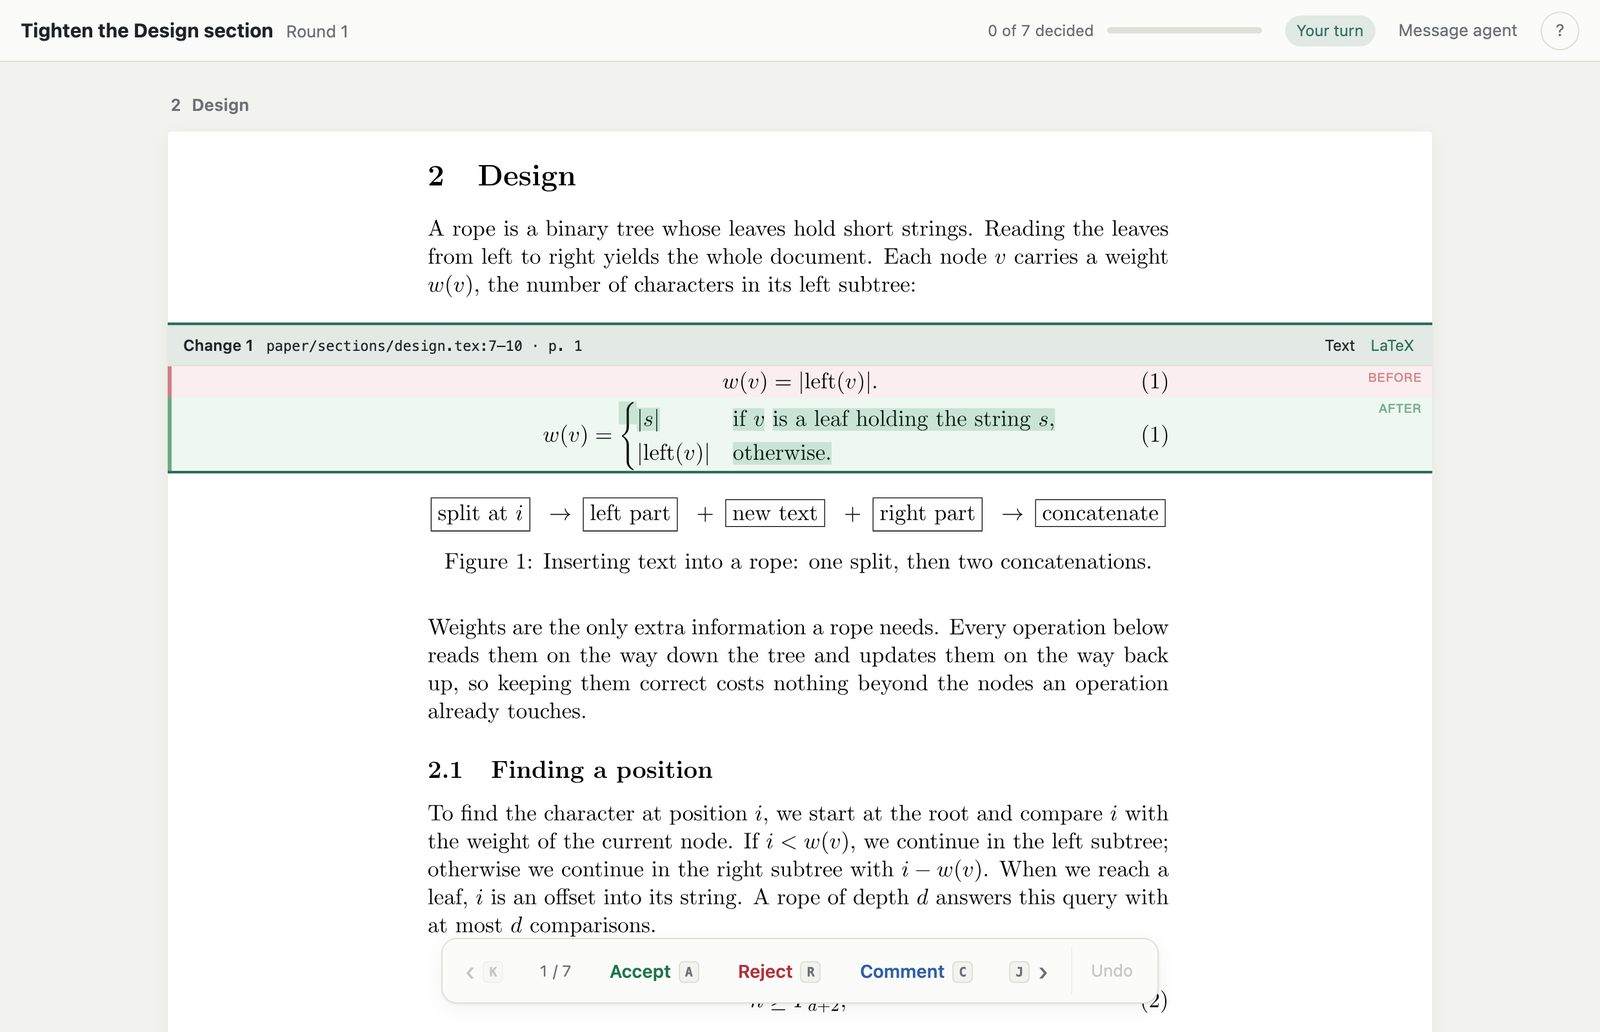
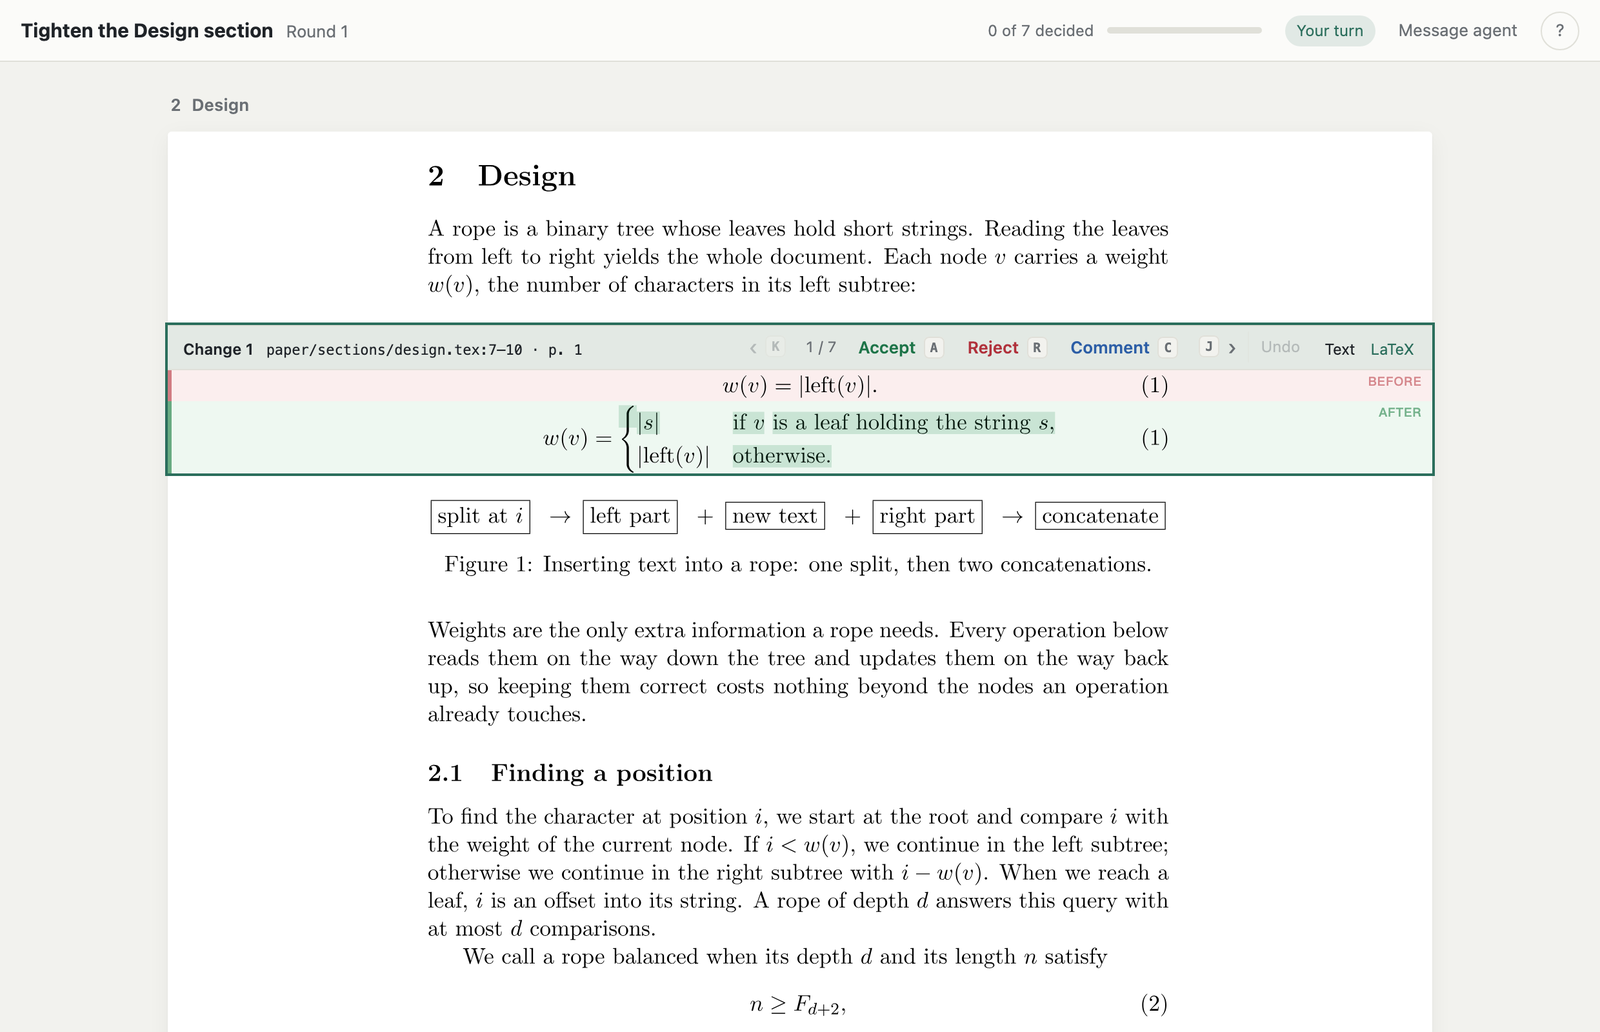
Put the review actions in the current change's header

diff --git a/web/style.css b/web/style.css
@@ -72,13 +72,13 @@ kbd {
 .ghost.round { width: 30px; height: 30px; padding: 0; border-radius: 50%; border-color: var(--line); }
 
 /* Document */
-#paper { overflow: auto; padding: 18px 16px 150px; scroll-padding: 70px 0 130px; overflow-anchor: none; outline: none; }
+#paper { overflow: auto; padding: 18px 16px 90px; scroll-padding: 70px 0 90px; overflow-anchor: none; outline: none; }
 .document { max-width: 980px; margin: 0 auto; }
 .empty { text-align: center; color: var(--muted); padding: 60px 16px; }
 .part + .part { margin-top: 30px; }
 .part-title { font-size: 13px; font-weight: 600; color: var(--muted); margin: 6px 2px 10px; letter-spacing: .01em; }
 .part-title .number { margin-right: 8px; font-variant-numeric: tabular-nums; }
-.sheet { background: var(--paper); box-shadow: var(--shadow); border-radius: 3px; padding: 10px 0; overflow: hidden; }
+.sheet { background: var(--paper); box-shadow: var(--shadow); border-radius: 3px; padding: 10px 0; }
 .context, .side { line-height: 0; }
 .document img { display: block; width: 100%; height: auto; }
 .fold {
@@ -88,7 +88,8 @@ kbd {
 }
 
 .change { position: relative; scroll-margin: 70px; outline: none; color: #1f2328; }
-.change.standalone { background: var(--paper); box-shadow: var(--shadow); border-radius: 3px; overflow: hidden; margin-bottom: 18px; }
+.change.standalone { background: var(--paper); box-shadow: var(--shadow); border-radius: 3px; margin-bottom: 26px; }
+.change.standalone .change-head { border-radius: 3px 3px 0 0; }
 .change.inline { margin: 6px 0; }
 .change-head {
   display: flex; align-items: baseline; gap: 10px; padding: 5px 12px; font-size: 12px; line-height: 1.6;
@@ -176,6 +177,20 @@ kbd {
 .position { min-width: 52px; text-align: center; font-size: 12px; color: var(--muted); font-variant-numeric: tabular-nums; }
 .complete { padding: 0 14px; font-size: 13px; color: var(--muted); white-space: nowrap; }
 
+/* In the current change's header, which stays in view while the change is taller than the window. */
+.change.current > .change-head { position: sticky; top: 0; z-index: 4; padding-top: 3px; padding-bottom: 3px; }
+.change-head .dock { display: flex; align-items: center; flex: none; }
+.change-head .actions {
+  position: static; transform: none; max-width: none; padding: 0; gap: 0;
+  background: none; border: 0; box-shadow: none; border-radius: 0;
+}
+.change-head .actions button { padding: 3px 9px; font-size: 13px; line-height: 1.5; }
+.change-head .actions .nav { font-size: 17px; padding: 1px 7px; }
+.change-head .actions .undo { font-size: 12px; margin-left: 2px; padding: 3px 9px; }
+.change-head .position { min-width: 40px; font-size: 11.5px; }
+.change-head .complete { padding: 0 8px; font-size: 12px; }
+.change-head .composer { position: absolute; top: calc(100% + 6px); right: 8px; left: auto; bottom: auto; transform: none; width: min(380px, calc(100vw - 24px)); }
+
 .composer {
   position: fixed; left: 50%; bottom: 84px; transform: translateX(-50%); z-index: 5;
   width: min(540px, calc(100vw - 24px)); padding: 12px; border-radius: 12px;
@@ -210,7 +225,10 @@ dialog form button { border: 1px solid var(--line); background: var(--frame); bo
   .track { width: 70px; }
   .actions button { padding: 9px 9px; }
   .actions kbd, #note-button { display: none; }
-  #paper { padding: 10px 6px 150px; }
+  .change-head { flex-wrap: wrap; }
+  .change-head .dock { order: 9; flex-basis: 100%; justify-content: center; }
+  .change-head .composer { right: 0; width: calc(100vw - 24px); }
+  #paper { padding: 10px 6px 90px; }
 }
 @media (prefers-reduced-motion: reduce) {
   * { scroll-behavior: auto !important; animation: none !important; transition: none !important; }

diff --git a/web/index.html b/web/index.html
@@ -30,25 +30,27 @@
     <div id="document" class="document"><p class="empty">Loading…</p></div>
   </main>
 
-  <nav id="actions" class="actions" aria-label="Review the current change" hidden>
-    <button type="button" data-command="previous" class="nav" aria-label="Previous change" aria-keyshortcuts="K ArrowLeft" title="Previous change (K or ←)">‹<kbd>K</kbd></button>
-    <span id="position" class="position" aria-live="polite"></span>
-    <button type="button" data-command="accept" class="accept" aria-keyshortcuts="A" title="Accept: apply to your manuscript (A)">Accept<kbd>A</kbd></button>
-    <button type="button" data-command="reject" class="reject" aria-keyshortcuts="R" title="Reject: discard the change (R)">Reject<kbd>R</kbd></button>
-    <button type="button" data-command="comment" class="comment" aria-keyshortcuts="C" title="Comment: ask the agent to revise (C)">Comment<kbd>C</kbd></button>
-    <span id="complete" class="complete" hidden></span>
-    <button type="button" data-command="next" class="nav" aria-label="Next change" aria-keyshortcuts="J ArrowRight" title="Next change (J or →)"><kbd class="lead">J</kbd>›</button>
-    <button type="button" data-command="undo" class="undo" title="Undo the last decision (⌘Z)" disabled>Undo</button>
-  </nav>
+  <div id="dock" class="dock" hidden>
+    <nav id="actions" class="actions" aria-label="Review the current change" hidden>
+      <button type="button" data-command="previous" class="nav" aria-label="Previous change" aria-keyshortcuts="K ArrowLeft" title="Previous change (K or ←)">‹<kbd>K</kbd></button>
+      <span id="position" class="position" aria-live="polite"></span>
+      <button type="button" data-command="accept" class="accept" aria-keyshortcuts="A" title="Accept: apply to your manuscript (A)">Accept<kbd>A</kbd></button>
+      <button type="button" data-command="reject" class="reject" aria-keyshortcuts="R" title="Reject: discard the change (R)">Reject<kbd>R</kbd></button>
+      <button type="button" data-command="comment" class="comment" aria-keyshortcuts="C" title="Comment: ask the agent to revise (C)">Comment<kbd>C</kbd></button>
+      <span id="complete" class="complete" hidden></span>
+      <button type="button" data-command="next" class="nav" aria-label="Next change" aria-keyshortcuts="J ArrowRight" title="Next change (J or →)"><kbd class="lead">J</kbd>›</button>
+      <button type="button" data-command="undo" class="undo" title="Undo the last decision (⌘Z)" disabled>Undo</button>
+    </nav>
 
-  <form id="composer" class="composer" hidden>
-    <label for="composer-text" id="composer-label">Comment</label>
-    <textarea id="composer-text" rows="4" placeholder="What should the agent change here?"></textarea>
-    <div class="composer-row">
-      <span class="muted"><kbd>⌘</kbd><kbd>↵</kbd> send · <kbd>Esc</kbd> cancel</span>
-      <button type="submit">Send</button>
-    </div>
-  </form>
+    <form id="composer" class="composer" hidden>
+      <label for="composer-text" id="composer-label">Comment</label>
+      <textarea id="composer-text" rows="4" placeholder="What should the agent change here?"></textarea>
+      <div class="composer-row">
+        <span class="muted"><kbd>⌘</kbd><kbd>↵</kbd> send · <kbd>Esc</kbd> cancel</span>
+        <button type="submit">Send</button>
+      </div>
+    </form>
+  </div>
 
   <div id="toast" class="toast" role="alert" hidden></div>
 

diff --git a/web/app.js b/web/app.js
@@ -146,6 +146,7 @@ function openSource(article, units, toggle = true) {
 
 function renderDocument() {
   const root = $('#document');
+  park();
   root.replaceChildren();
   const {sections, loose} = view.detail;
   let index = 0;
@@ -211,6 +212,23 @@ function refresh() {
   }
   renderActions();
   renderBanner();
+  dock();
+}
+
+// The action bar and comment box sit in the current change's header, like an inline editor widget.
+const DOCK = document.getElementById('dock');
+
+function dock() {
+  const article = articles()[view.current];
+  if (!article) return park();
+  const head = article.querySelector('.change-head');
+  DOCK.hidden = false;
+  if (DOCK.parentElement !== head) head.insertBefore(DOCK, head.querySelector('.change-kind'));
+}
+
+function park() {
+  DOCK.hidden = true;
+  if (DOCK.parentElement !== document.body) document.body.append(DOCK);
 }
 
 function renderStatus() {
@@ -294,15 +312,15 @@ function select(index, {scroll = true, smooth = true} = {}) {
   const article = articles()[index];
   const paper = $('#paper');
   const box = article.getBoundingClientRect(), frame = paper.getBoundingClientRect();
-  const space = frame.height - 150;
-  const offset = box.height < space ? (space - box.height) / 2 : 24;
+  const space = frame.height - 40;
+  const offset = box.height < space ? (space - box.height) / 2 : 12;
   paper.scrollTo({top: paper.scrollTop + box.top - frame.top - offset, behavior: smooth ? 'smooth' : 'auto'});
   article.focus({preventScroll: true});
 }
 
 let scrollFrame = 0, programmaticUntil = 0;
 function followScroll() {
-  if (scrollFrame || performance.now() < programmaticUntil) return;
+  if (scrollFrame || performance.now() < programmaticUntil || view.composer) return;
   scrollFrame = requestAnimationFrame(() => {
     scrollFrame = 0;
     const frame = $('#paper').getBoundingClientRect();
